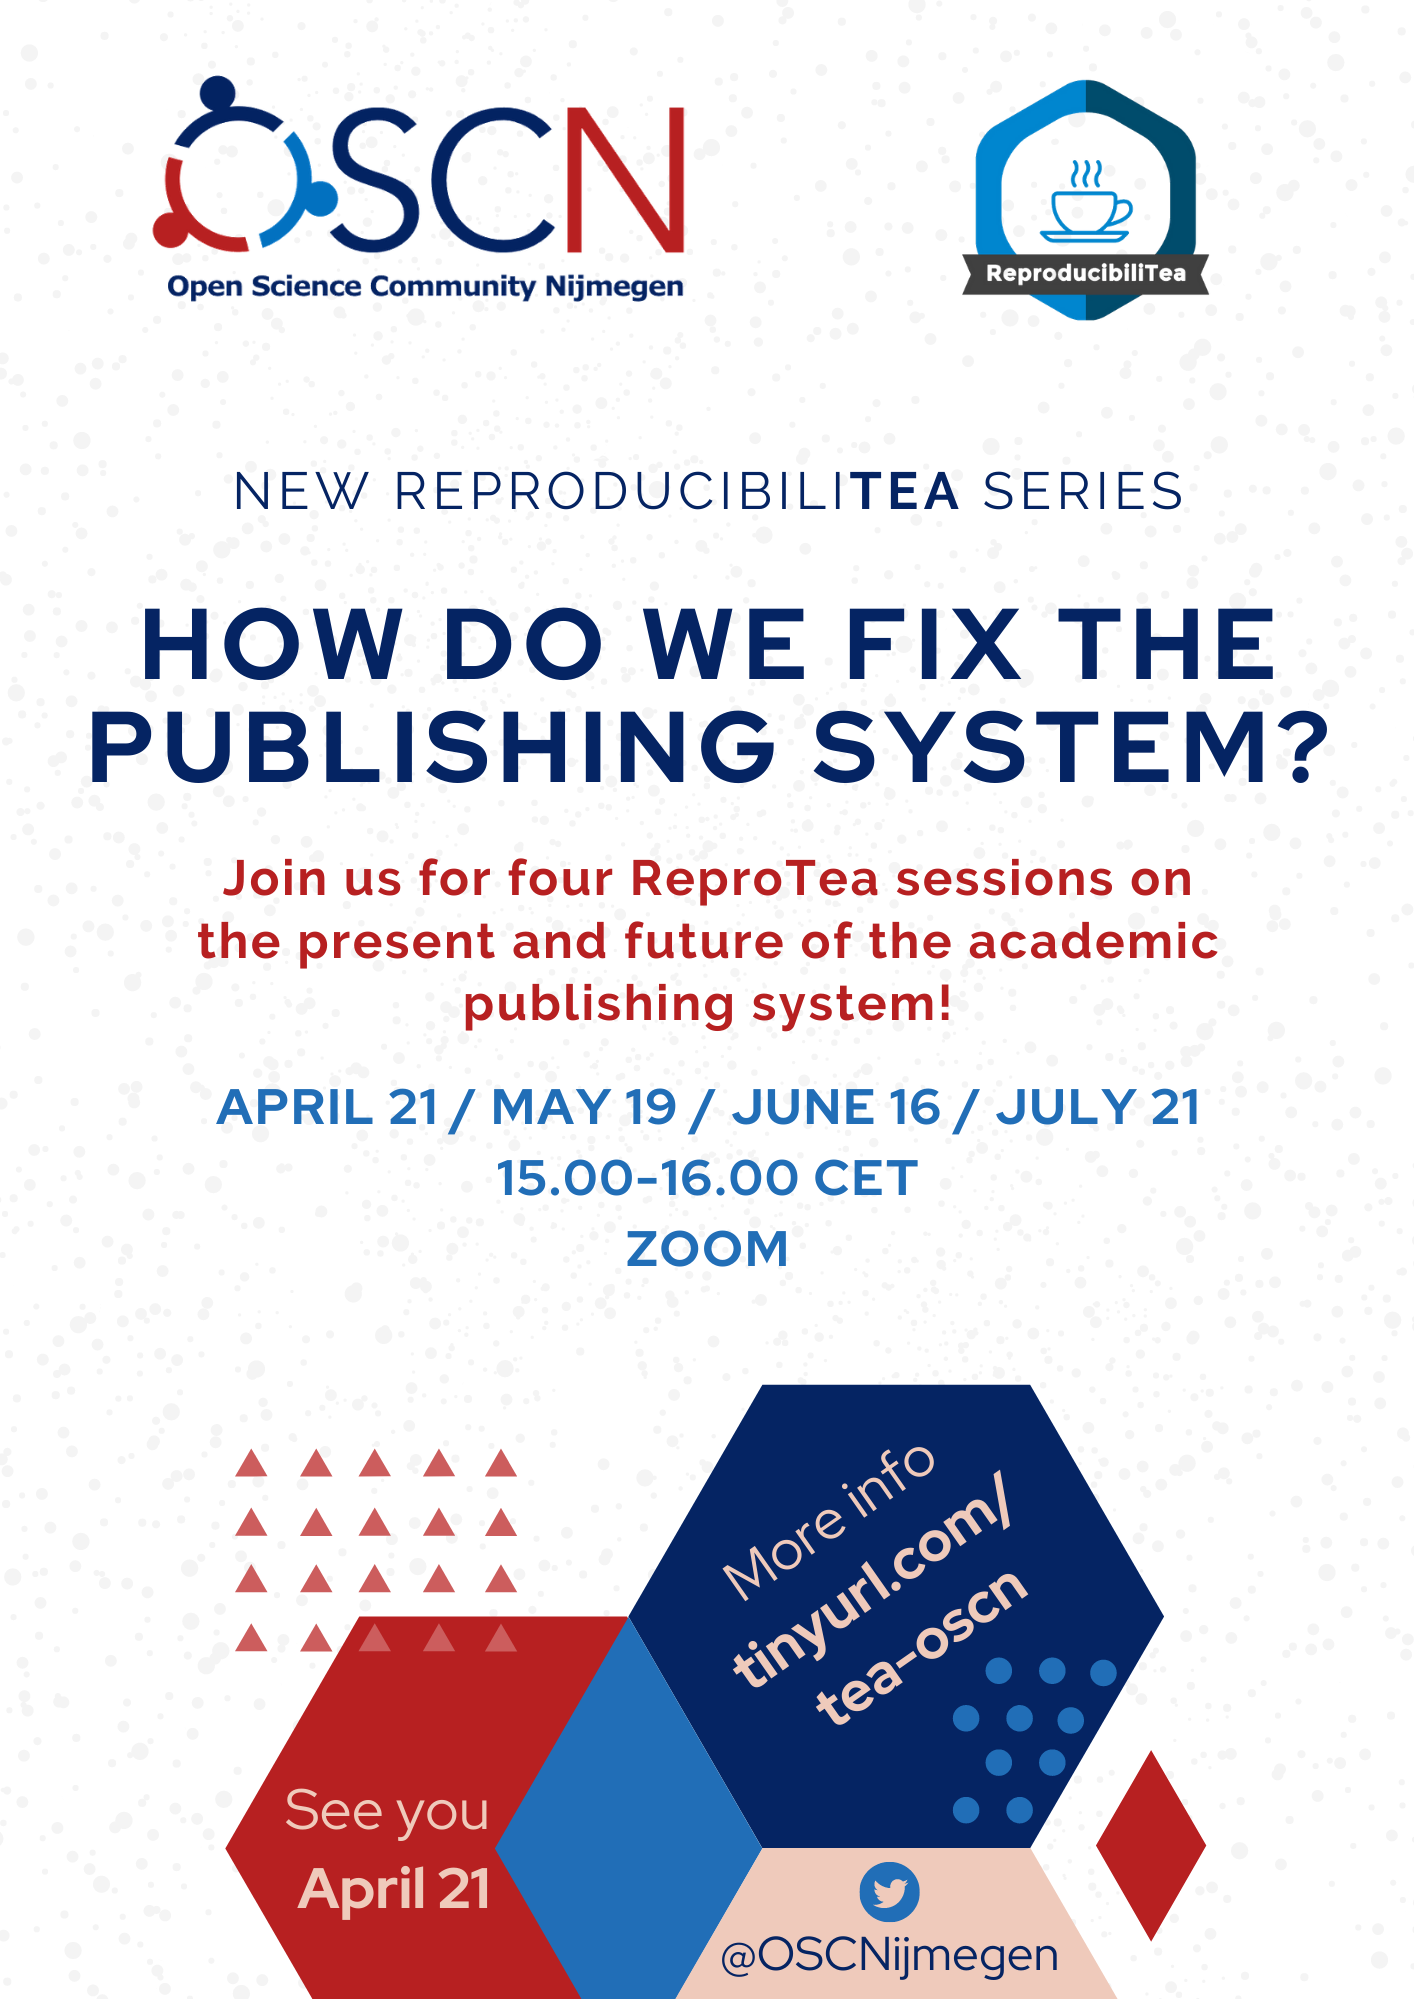
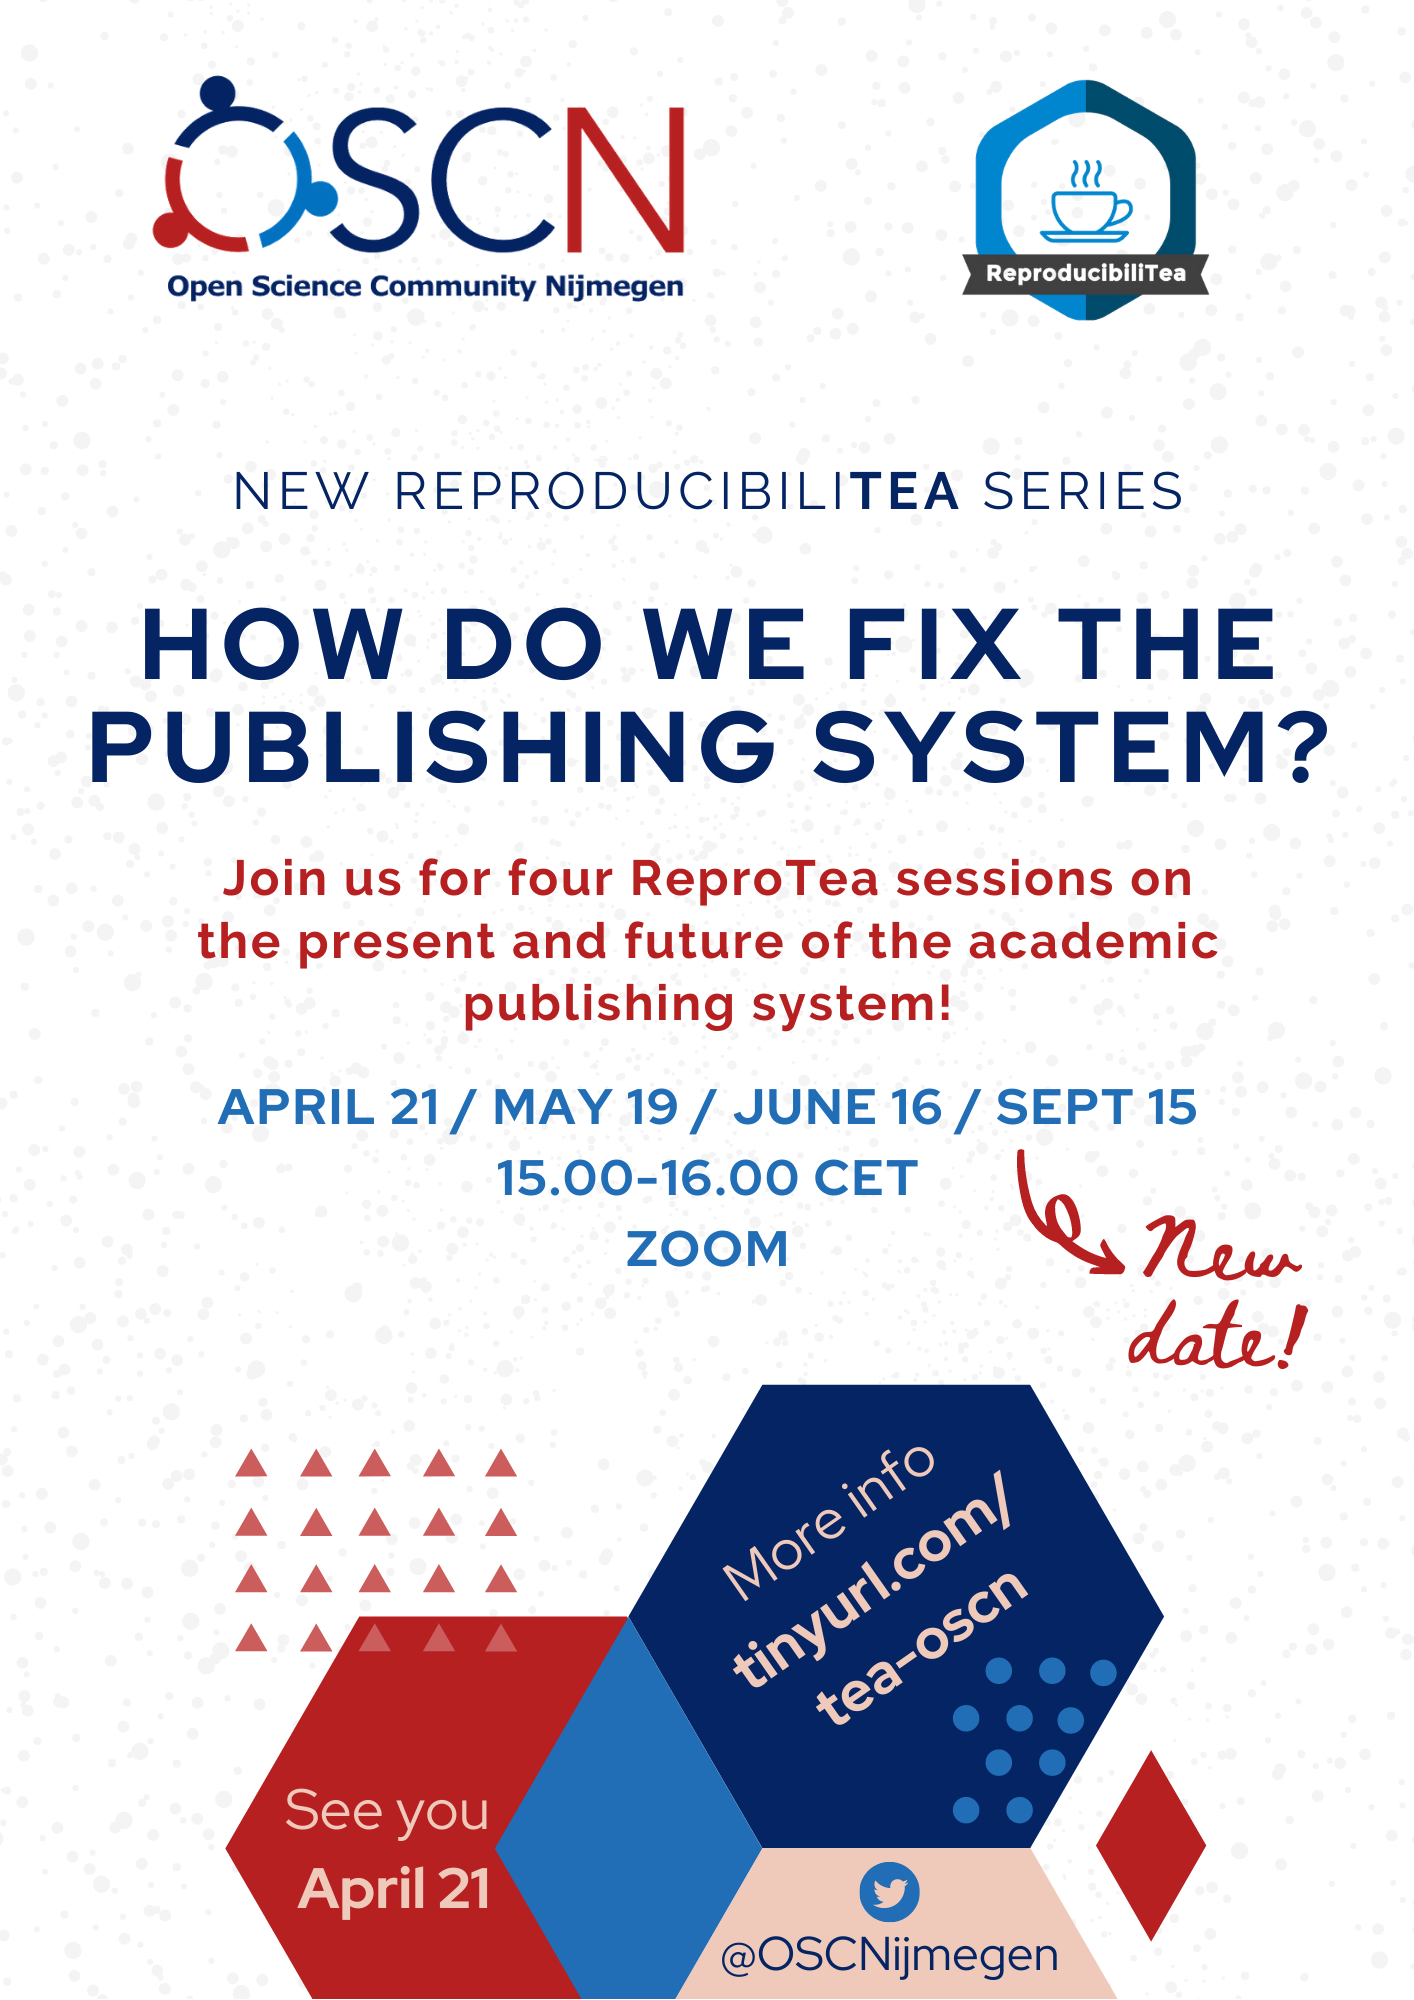
Add Anita Eerland to team; add reproTea October 2021

diff --git a/docs/_pages/reproducibilitea.md b/docs/_pages/reproducibilitea.md
@@ -6,16 +6,8 @@ layout: single
 ReproducibiliTea is a global initiative bringing journal clubs on reproducibility and open science to, at the time of writing, about 20 countries spread over 4 continents. There is more information on the initiative and current chapter on the [ReproducibiliTea website](https://reproducibilitea.org/).
 
 ## Next event
-Our next event will be on **September 15**, 2021, 15:00 CEST. For more information, see [here](https://openscience-nijmegen.nl/reproTea15/). 
+Our next event will be on **October 27**, 2021, 15:00 CEST, during the International Open Access week. For more information, see [here](https://openscience-nijmegen.nl/reproTea15/). 
 For all future meetings, see our [agenda](https://openscience-nijmegen.nl/_pages/agenda/).
-
-
-## New series in April - July 2021: Fixing the publishing system series
-
-From April onwards, we’re going to do ReproducibiliTea a little differently. For three to four sessions, we will focus on a particular aspect of the academic world, identify its problems and brainstorm solutions. The first topic we will tackle is the publishing system. Ever been bothered by the fact that publishing Open Access feels a lot like being the victim of grand larceny? Or that it can take years to get through the review process, only for your paper to be rejected (yet again)? Ever heard of the 450 Movement? In the first session of this new series, we will diagnose exactly what’s wrong with the current publishing system and identify its problems. In the second third session, we will discuss concrete solutions to those problems. In the final session, we will sum up the discussion and fine-tune our solutions.
-In the last meeting, we will wrap up and discuss any further points left open. We will also collect more concrete examples of how these problems are already being addressed. After the series, we also plan to write a (short) report on the outcome of these three to four sessions, which we will make available on the OSCN website as a white paper and possibly also look to publish in a journal (if we still have confidence in the publishing system after we’re done!). Anyone who comes to one or more of the sessions will of course be acknowledged as a contributor to the report and paper.
-
-![flyer](../assets//images//ReproTea_series.png)
 
 ## Objectives
 - learn about cool papers/initiatives related to open open science and reproducibility
@@ -69,6 +61,7 @@ This is the schedule for all upcoming meetings:
 | May 19<sup>th</sup> |  Series: How do we fix the publishing system? | - | Eva, Johannes, Lena |
 | June 16<sup>th</sup> |  Series: How do we fix the publishing system? | - | Eva, Johannes, Lena |
 | September 15<sup>th</sup> |  Series: How do we fix the publishing system? | - | Eva, Johannes, Lena |
+| October 27<sup>th</sup> |  [Gilmore et al. (2018)](https://journals.sagepub.com/doi/full/10.1177/2515245917746500) | - | Johannes |
 
 The next ReproducibiliTea will also be shown in the [Agenda](https://openscience-nijmegen.nl/_pages/agenda/).
 

diff --git a/docs/_pages/publishing_system.md b/docs/_pages/publishing_system.md
@@ -1,0 +1,11 @@
+---
+title: "publishing_system"
+layout: single
+---
+
+## New series in April - July 2021: Fixing the publishing system series
+
+From April onwards, we’re going to do ReproducibiliTea a little differently. For three to four sessions, we will focus on a particular aspect of the academic world, identify its problems and brainstorm solutions. The first topic we will tackle is the publishing system. Ever been bothered by the fact that publishing Open Access feels a lot like being the victim of grand larceny? Or that it can take years to get through the review process, only for your paper to be rejected (yet again)? Ever heard of the 450 Movement? In the first session of this new series, we will diagnose exactly what’s wrong with the current publishing system and identify its problems. In the second third session, we will discuss concrete solutions to those problems. In the final session, we will sum up the discussion and fine-tune our solutions.
+In the last meeting, we will wrap up and discuss any further points left open. We will also collect more concrete examples of how these problems are already being addressed. After the series, we also plan to write a (short) report on the outcome of these three to four sessions, which we will make available on the OSCN website as a white paper and possibly also look to publish in a journal (if we still have confidence in the publishing system after we’re done!). Anyone who comes to one or more of the sessions will of course be acknowledged as a contributor to the report and paper.
+
+![flyer](../assets//images//ReproTea_series.png)

diff --git a/docs/_posts/2021-10-27-reproTea17.md b/docs/_posts/2021-10-27-reproTea17.md
@@ -1,0 +1,17 @@
+---
+title: "October 27 - ReproducibiliTea Nijmegen meeting :tea::tea:"
+excerpt: Join us for discussion on open science and tea!
+categories: [event]
+---
+
+**When**: Wednesday, October 27th from 15:00 to 16:00
+
+**Where**: Online! Register [here](https://forms.gle/zTp6owo34JJFXyVS6) to get the link and password for the zoom session.
+
+**What**: ReproducibiliTea Nijmegen is part of [ReproducibiliTea](https://reproducibilitea.org/), a grassroots journal club initiative.
+As suggested by the name, the discussions in these journal clubs revolves around matters of open science and reproducibility.
+
+In this meeting, we'll be discussing the paper **Practical solutions for sharing data and materials from psychological research** (2018) by _Rick O. Gilmore_, _Joy Lorenzo Kennedy_, and _Karen E. Adolph_.
+You can find the paper [here](https://journals.sagepub.com/doi/full/10.1177/2515245917746500).
+
+You can suggest papers for future meetings [here](https://docs.google.com/spreadsheets/d/1efHsgzEu9OqKNRk9EARDNL3gBfsPNRgbdt7-PhfWS-U/edit#gid=350301351) :sparkles:

diff --git a/docs/_posts/2021-03-17-reproTea12.md b/docs/_posts/2021-03-17-reproTea12.md
@@ -6,7 +6,7 @@ categories: [past_event]
 
 **When**: Wednesday, 17 March from 15:00 to 16:00
 
-**Where**: Online! Register [here](https://forms.gle/64GVFpwUyC5jPHiL7) to get the link and password.
+**Where**: Online! Register [here](https://forms.gle/EJkPkCx7jTNkfg8o8) to get the link and password.
 
 **What**: ReproducibiliTea Nijmegen is part of [ReproducibiliTea](https://reproducibilitea.org/), a grassroots journal club initiative.
 As suggested by the name, the discussions in these journal clubs revolves around matters of open science and reproducibility.

diff --git a/docs/_pages/team.md b/docs/_pages/team.md
@@ -5,6 +5,7 @@ layout: single
 
 Current members of the organizing team:
 
+- [Anita Eerland](https://www.anitaeerland.com/), Behavioural Science Institute (BSI)
 - [Eva Poort](https://www.mpi.nl/people/poort-eva), Max Planck Institute for Psycholinguistics
 - Jeanette Mostert, Radboud UMC
 - [Jeroen Bos](https://www.rug.nl/staff/jeroen.bos/), open access officer at Radboud library

diff --git a/docs/_posts/2021-09-15-reproTea16.md b/docs/_posts/2021-09-15-reproTea16.md
@@ -1,7 +1,7 @@
 ---
 title: "September 15 - ReproducibiliTea Nijmegen meeting :tea::tea:"
 excerpt: Join us for discussion on open science and tea!
-categories: [event]
+categories: [past_event]
 ---
 
 **When**: Wednesday, September 15th from 15:00 to 16:00
